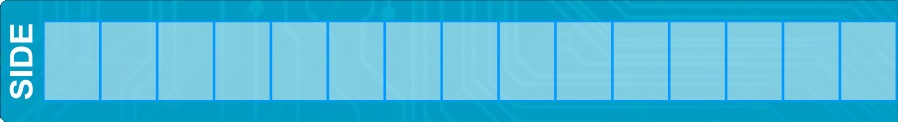
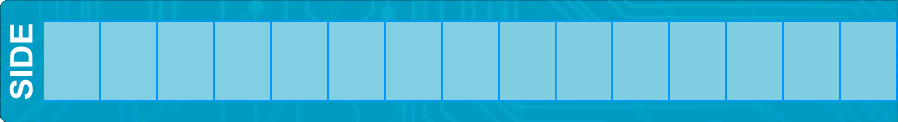
fix side deck viewer and extra viewer

Changed region(s): [[0.0312, 0.1721, 0.9978, 0.1967]]

diff --git a/main.py b/main.py
@@ -131,7 +131,7 @@ def resize_card(surf, new_dim_preset):
         new_width = 83
         new_height = 118
     elif new_dim_preset == 'viewer small':
-        new_width = 54
+        new_width = 55
         new_height = 78
 
     resized_surf = pg.transform.smoothscale(surf, (new_width, new_height))
@@ -170,8 +170,6 @@ class App:
         self.start_menu_logo_rect = self.start_menu_logo_sprite.get_rect(midtop = (SCREEN_WIDTH//2, SCREEN_HEIGHT//6))
 
         #Deck editor
-        self.current_cards_in_deck = [[], [], []] #Main, Extra, Side
-        self.current_deck_sprites = [[], [], []] #Main, Extra, Side
 
         self.card_search_sprite = pg.image.load("assets/card_search.png").convert_alpha()
         self.card_search_rect = self.card_search_sprite.get_rect(topright=(SCREEN_WIDTH, 5))
@@ -187,6 +185,10 @@ class App:
         self.extra_viewer_sprite = pg.image.load("assets/extra_viewer.png").convert_alpha()
         extra_bottomright = (self.card_search_rect.bottomleft[0] - 5, self.card_search_rect.bottomleft[1] + 5)
         self.extra_viewer_rect = self.extra_viewer_sprite.get_rect(bottomright=extra_bottomright)
+
+        self.current_cards_in_deck = [[], [], []] #Main, Extra, Side
+        self.current_deck_sprites = [[], [], []] #Main, Extra, Side
+        self.current_deck_rects = self.gen_deck_rects()
 
     def read_deck_from_ydk(self, ydk_path):
         """
@@ -280,6 +282,45 @@ class App:
         for root, dirs, files in os.walk("assets/cached cards"):
             for file in files:
                 os.remove(os.path.join(root, file))
+
+    def gen_deck_rects(self):
+        """
+        Generate the rects for the main, extra and side deck.
+
+        Parameters:
+        - None
+
+        Returns:
+        - A list of rects for the main, extra and side deck.
+        """
+
+        rects = [[], [], []]
+
+        #Main deck
+        x, y = self.main_viewer_rect.topleft[0] + 58, self.main_viewer_rect.topleft[1] + 2
+        card_dims = (83, 118)
+        for i in range(60):
+            rects[0].append(pg.Rect((x, y), card_dims))
+            x += 83 + 2 # 83 is the width of the card, 2 is the horizontal padding
+            if i % 10 == 9:
+                x = self.main_viewer_rect.topleft[0] + 58
+                y += 118 + 2 # 118 is the height of the card, 3 is the vertical padding
+            
+        
+        #Side deck
+        x, y = self.side_viewer_rect.topleft[0] + 44, self.side_viewer_rect.topleft[1] + 22
+        card_dims = (55, 78)
+        for i in range(15):
+            rects[2].append(pg.Rect((x, y), card_dims))
+            x += 55 + 2 # 54 is the width of the card, 2 is the horizontal padding
+
+        #Extra deck
+        x, y = self.extra_viewer_rect.topleft[0] + 44, self.extra_viewer_rect.topleft[1] + 22
+        for i in range(15):
+            rects[1].append(pg.Rect((x, y), card_dims))
+            x += 55 + 2 # 54 is the width of the card, 2 is the horizontal padding
+
+        return rects
 
     def run(self):
         while True:

diff --git a/logic/states/deck_builder.py b/logic/states/deck_builder.py
@@ -8,7 +8,16 @@ rect_width = SCREEN_WIDTH - (rect_width * 2)
 
 
 def handle_deck_builder_events(game, event):
-    pass
+    if event.type == pg.MOUSEBUTTONDOWN and event.button == 1:
+        card_found = False
+        for deck_rects in game.current_deck_rects:
+            for rect in deck_rects:
+                if rect.collidepoint(event.pos):
+                    print("Card clicked")
+                    card_found = True
+                    break
+                if card_found: break
+
 
 def update_deck_builder():
     pass
@@ -29,24 +38,7 @@ def draw_deck(game):
     game.screen.blit(game.extra_viewer_sprite, game.extra_viewer_rect)
     game.screen.blit(game.card_search_sprite, game.card_search_rect)
 
-    # Draw the main deck
-    x, y = game.main_viewer_rect.topleft[0] + 58, game.main_viewer_rect.topleft[1] + 2
-
-    for i, card in enumerate(game.current_deck_sprites[0]):  # dimensions of viewer normal card = (82, 117)
-
-        game.screen.blit(card, (x, y))
-
-        x += 83 + 2 # 83 is the width of the card, 2 is the horizontal padding
-        if i % 10 == 9:
-            x = game.main_viewer_rect.topleft[0] + 58
-            y += 118 + 2 # 118 is the height of the card, 3 is the vertical padding
-
-    # Draw the side deck
-    x, y = game.side_viewer_rect.topleft[0] + 44, game.side_viewer_rect.topleft[1] + 22
-
-    for i, card in enumerate(game.current_deck_sprites[2]): #dimensions of extra small card = (54, 78)
-        game.screen.blit(card, (x, y))
-        
-        x += 54 + 2 # 54 is the width of the card, 2 is the horizontal padding
-
-        
+    # Draw the deck
+    for sprites, rects in zip(game.current_deck_sprites, game.current_deck_rects):
+        for sprite, rect in zip(sprites, rects):
+            game.screen.blit(sprite, rect)
